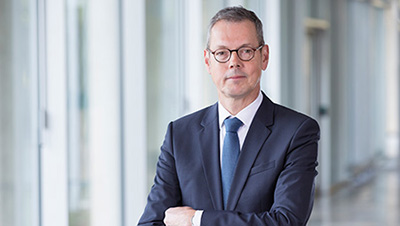
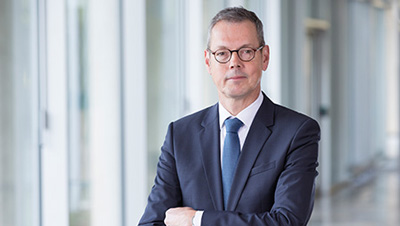
added pictures for workshops + css changes in workshop area

diff --git a/css/menu_ws.css b/css/menu_ws.css
@@ -130,6 +130,6 @@ label.burger-ws {
 #ws_image, #ws_content_span {
   margin: 1ch;
 }
-#ws_intro {
+#ws_intro, #ws_vita {
 	clear:both;
 }
